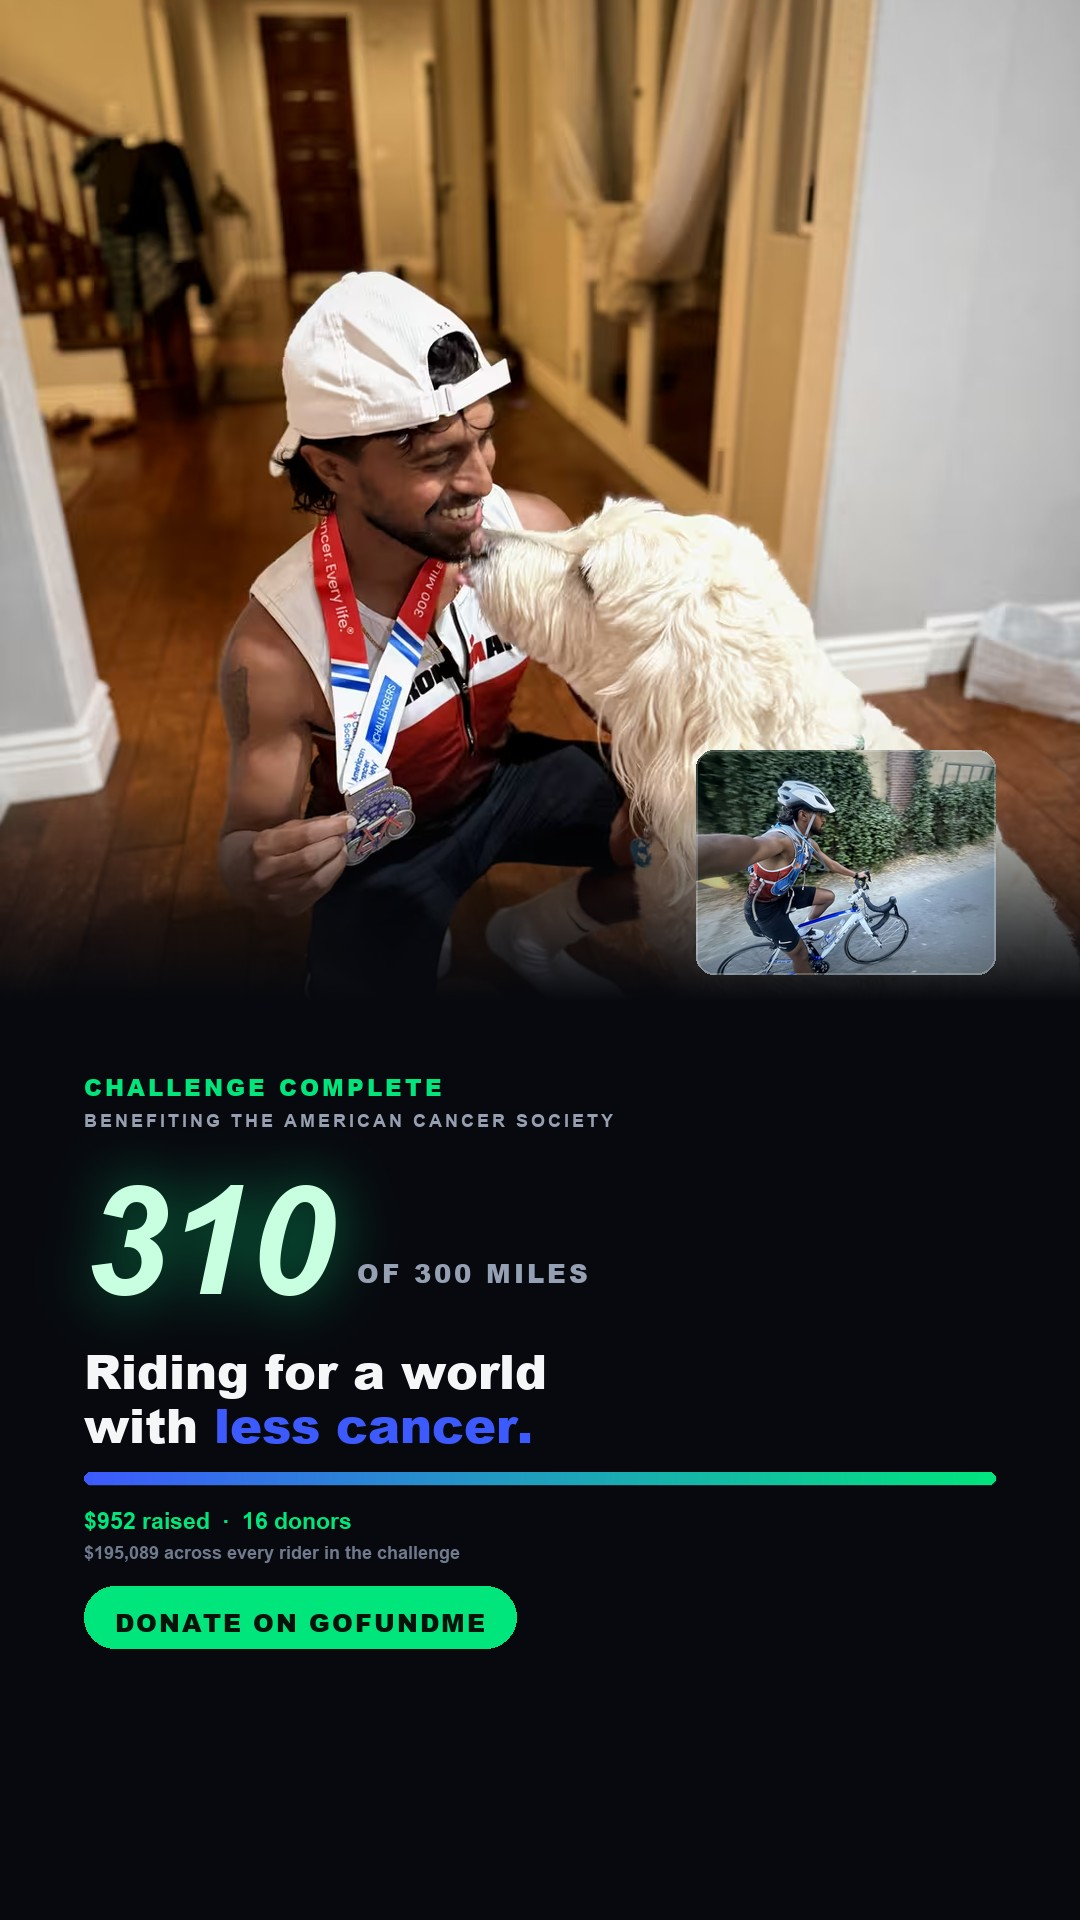
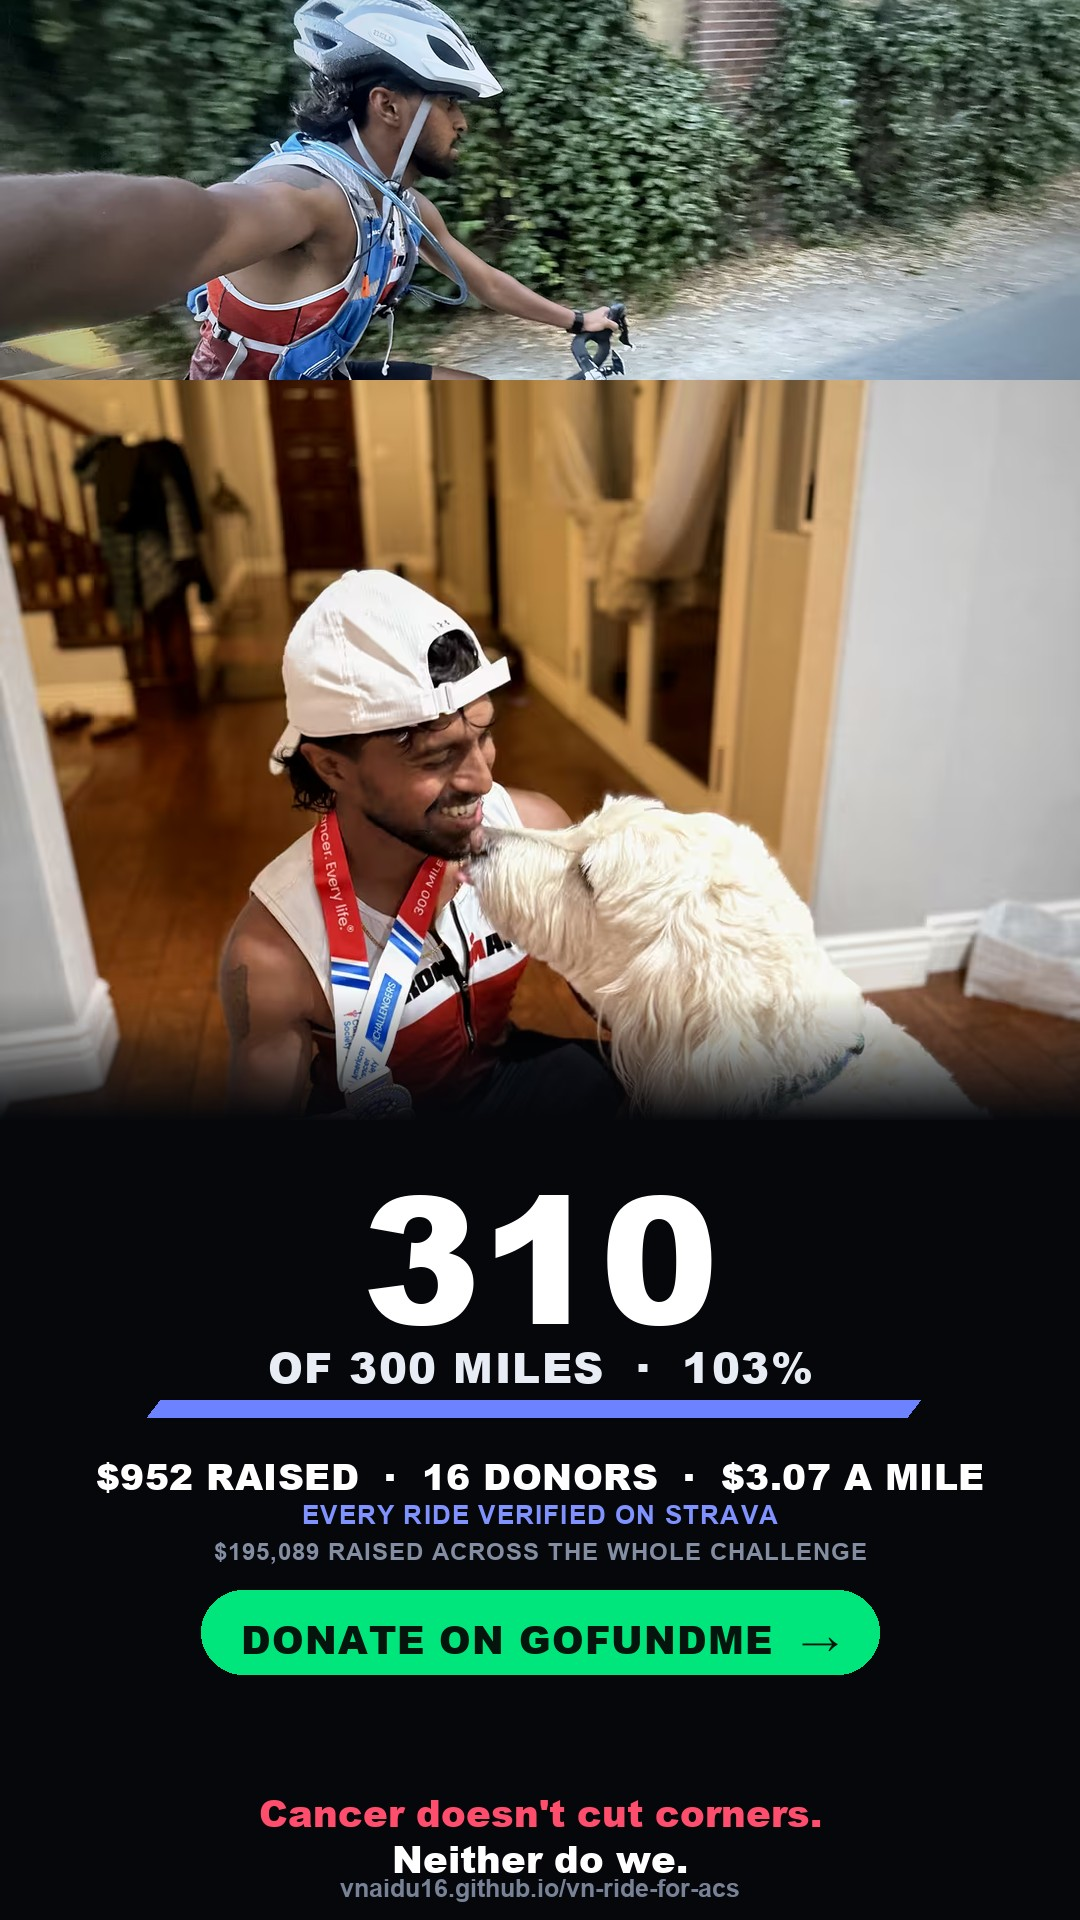
Put the story back to the format that already worked
V pointed at his Aug 25 story and asked why I was rebuilding from scratch when
that one was fine. He was right. It had a shape I had thrown away: photo, one
big white number, a tight stack of facts, a green button, the tagline, the URL.
Rebuilt to match it rather than inventing a fourth thing.

Changes it needed: the bike sits small across the top so Odin gets the space
below as the photo that carries it; the number moved off the photo and onto
flat ground, because on Odin it landed square on the medal in his hand; and the
gap under the button is left clear for the link sticker, which on the old one
was pasted over the button.

Final numbers: 310 of 300 at 103%, $952 from 16 donors, $3.07 a mile, and the
$195,089 challenge total on its own line.

Claude-Session: https://claude.ai/code/session_01NH75BrgSUeWBYsvkeeFkNz

diff --git a/tools/make_cards.py b/tools/make_cards.py
@@ -327,15 +327,83 @@ def build_post(ride, medal, done, goal, raised, donors, allriders):
     return base
 
 
+def ctext(d, cx, y, text, fnt, fill, sp=0):
+    """Centred, with optional letter spacing."""
+    w = tracked_w(d, text, fnt, sp)
+    tracked(d, (cx - w / 2, y), text, fnt, fill, sp)
+    return w
+
+
+def skewbar(base, cx, y, w, h, pct, lean=14):
+    """The website's progress track: a leaning parallelogram, blue on dark."""
+    pad = lean
+    strip = Image.new("RGBA", (w + pad * 2, h), (0, 0, 0, 0))
+    sd = ImageDraw.Draw(strip)
+    sd.polygon([(pad, 0), (w + pad, 0), (w + pad - lean, h), (pad - lean, h)],
+               fill=(30, 36, 52, 255))
+    fw = max(0, int(w * pct))
+    if fw:
+        sd.polygon([(pad, 0), (pad + fw, 0), (pad + fw - lean, h), (pad - lean, h)],
+                   fill=(109, 130, 255, 255))
+    base.paste(strip, (int(cx - w / 2 - pad), y), strip)
+    return base
+
+
 def build_story(ride, medal, done, goal, rng, raised, money_goal, donors, allriders=0):
-    W, H, L = 1080, 1920, 84
-    PH = 1000
-    base = Image.new("RGB", (W, H), DARK)
-    base.paste(cover(medal, W, PH, 0.5, 0.26), (0, 0))
-    base = panel(base, PH, H, W, fade=210)
-    base = typeblock(base, L, PH + 70, W, done, goal, raised, donors, allriders,
-                     scale=1.0, cta=True)
-    base = inset(base, ride, (W - L - 300, PH - 250, 300, 225))
+    """Rebuilt to match the story V actually liked: the photo full bleed, one
+    big white number over it, and a compact stack of facts on the darkened
+    lower third. No panels, no cropping the photo into a strip."""
+    W, H = 1080, 1920
+    CX = W // 2
+    BIKE_H, MEDAL_END = 380, 1120
+    base = Image.new("RGB", (W, H), (5, 7, 11))
+
+    # Bike small across the top, Odin large beneath it as the one that carries
+    # the post. The type sits on the lower part of Odin once it is dark enough,
+    # and on flat ground below that.
+    base.paste(cover(ride, W, BIKE_H, 0.32, 0.30), (0, 0))
+    base.paste(cover(medal, W, MEDAL_END - BIKE_H, 0.5, 0.28), (0, BIKE_H))
+
+    # Only the last stretch of the photo fades out, so the medal in his hand is
+    # never sat on. The number goes underneath on flat ground instead.
+    grad = Image.new("L", (W, MEDAL_END), 0)
+    gd = ImageDraw.Draw(grad)
+    for i in range(MEDAL_END):
+        t = max(0.0, (i - 990) / 130.0)
+        gd.line([(0, i), (W, i)], fill=int(min(1.0, t) ** 1.1 * 252))
+    base.paste(Image.new("RGB", (W, MEDAL_END), (5, 7, 11)), (0, 0), grad)
+
+    pct = done / goal
+    num = str(int(round(done)))
+    fn = font(F_BLACK, 178)
+    d = ImageDraw.Draw(base)
+    d.text((CX - d.textlength(num, font=fn) / 2, 1128), num, font=fn, fill=(255, 255, 255))
+
+    ctext(d, CX, 1336, "OF %d MILES  \u00b7  %d%%" % (goal, round(pct * 100)),
+          font(F_BLACK, 42), (232, 236, 244), 1.5)
+    base = skewbar(base, CX, 1400, 760, 18, min(1.0, pct))
+    d = ImageDraw.Draw(base)
+
+    permile = ("$%.2f A MILE" % (raised / done)) if done else ""
+    ctext(d, CX, 1450, "$%s RAISED  \u00b7  %d DONORS  \u00b7  %s"
+          % (format(raised, ","), donors, permile), font(F_BLACK, 36), (255, 255, 255), 0.5)
+    ctext(d, CX, 1500, "EVERY RIDE VERIFIED ON STRAVA", font(F_BOLD, 26), (128, 146, 255), 1.2)
+    if allriders:
+        ctext(d, CX, 1538, "$%s RAISED ACROSS THE WHOLE CHALLENGE" % format(allriders, ","),
+              font(F_BOLD, 24), (132, 142, 162), 1.0)
+
+    fc = font(F_BLACK, 38)
+    lab = "DONATE ON GOFUNDME  \u2192"
+    cw = tracked_w(d, lab, fc, 1.0)
+    d.rounded_rectangle([CX - cw / 2 - 40, 1590, CX + cw / 2 + 40, 1674], radius=42, fill=GREEN)
+    tracked(d, (CX - cw / 2, 1612), lab, fc, (5, 20, 12), 1.0)
+
+    # 1686 to 1772 stays clear: that is where the link sticker goes. On the old
+    # one the sticker landed on top of the button.
+
+    ctext(d, CX, 1786, "Cancer doesn't cut corners.", font(F_BLACK, 37), (255, 77, 109))
+    ctext(d, CX, 1832, "Neither do we.", font(F_BLACK, 37), (255, 255, 255))
+    ctext(d, CX, 1874, "vnaidu16.github.io/vn-ride-for-acs", font(F_BOLD, 25), (120, 130, 150))
     return base
 
 
